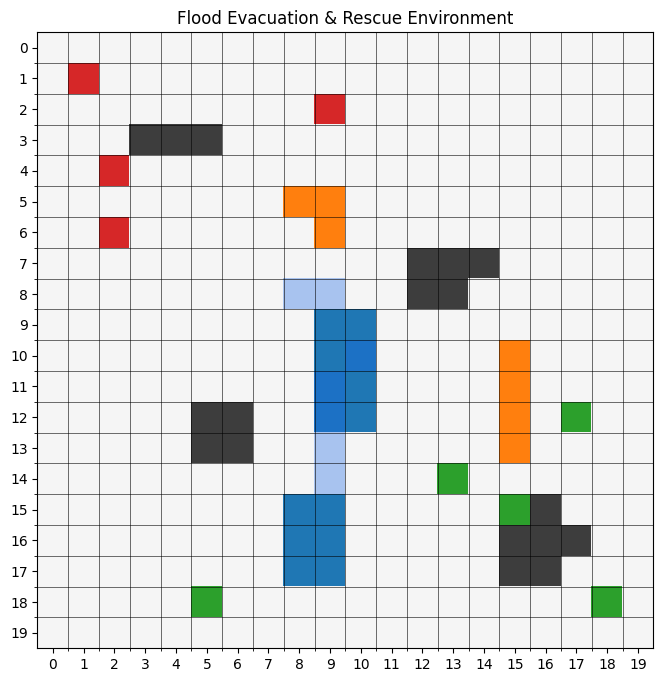
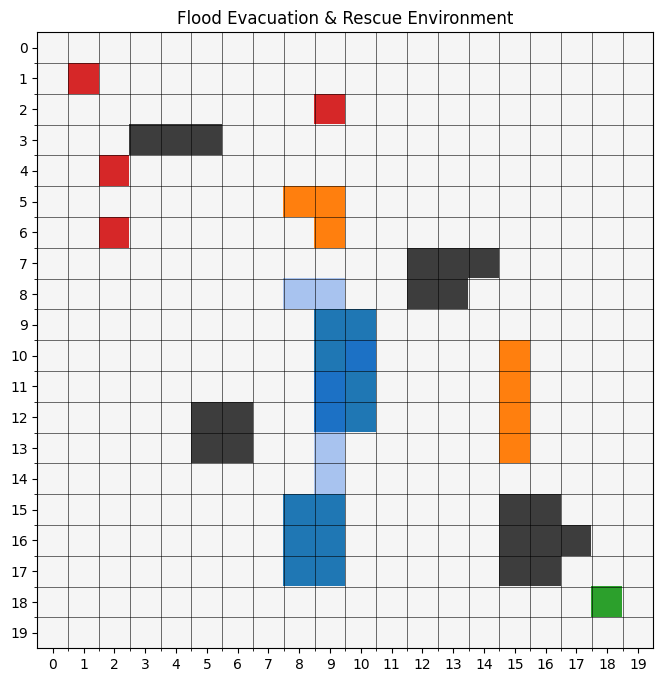
Refactor victim handling in grid.py and update related images
- Changed the representation of victims from a single tuple to a list of tuples for better scalability.
- Updated the grid initialization to loop through the list of victims for setting their cell types.
- Modified the display logic to print all victims and their neighbors.
- Updated images related to the flood environment and rescue stages to reflect recent changes.

diff --git a/Environment/grid.py b/Environment/grid.py
@@ -84,24 +84,17 @@ for r, c in blocked:
 # VICTIM
 # =====================================================
 
-victim = (1,1)
+victims = [(1,1),(4,2),(2,9),(6,2)]
 
-cell_type[1][1] = VICTIM
-cell_type[4][2] = VICTIM
-cell_type[2][9] = VICTIM
-cell_type[6][2] = VICTIM
+for r, c in victims:
+    cell_type[r][c] = VICTIM
 
 # =====================================================
 # SHELTER
 # =====================================================
 
 shelter = (18,18)
-
 cell_type[18][18] = SHELTER
-cell_type[12][17] = SHELTER
-cell_type[18][5] = SHELTER
-cell_type[15][15] = SHELTER
-cell_type[14][13] = SHELTER
 
 # =====================================================
 # FLOOD ORIGINS
@@ -357,7 +350,7 @@ def display_grid(save_image=True):
 # =====================================================
 
 print("\nVICTIM:")
-print(victim)
+print(victims)
 
 print("\nSHELTER:")
 print(shelter)
@@ -366,7 +359,8 @@ print("\nFLOOD ORIGINS:")
 print(flood_origins)
 
 print("\nNEIGHBORS OF VICTIM:")
-print(get_neighbors(victim))
+for victim in victims:
+    print(f"{victim}: {get_neighbors(victim)}")
 
 print("\nCELL INFO (9,9):")
 print(get_cell_info(9,9))